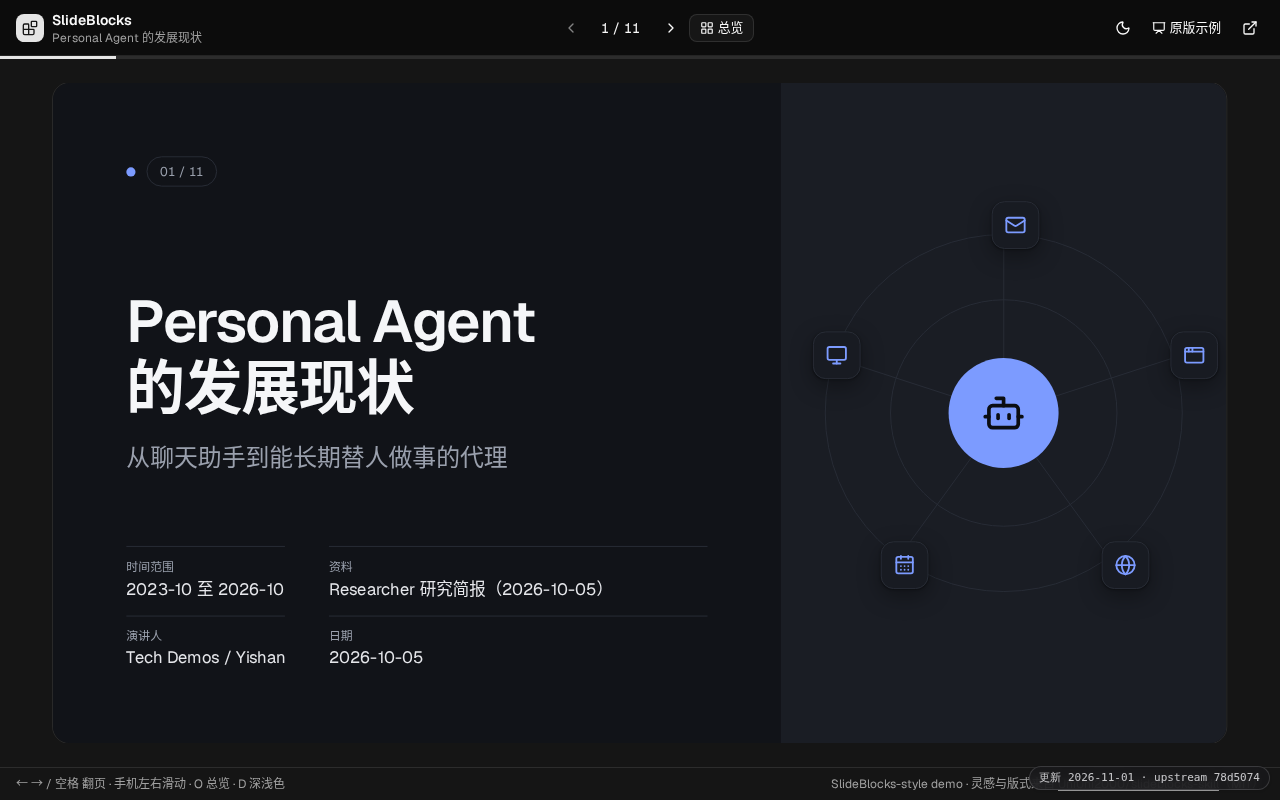
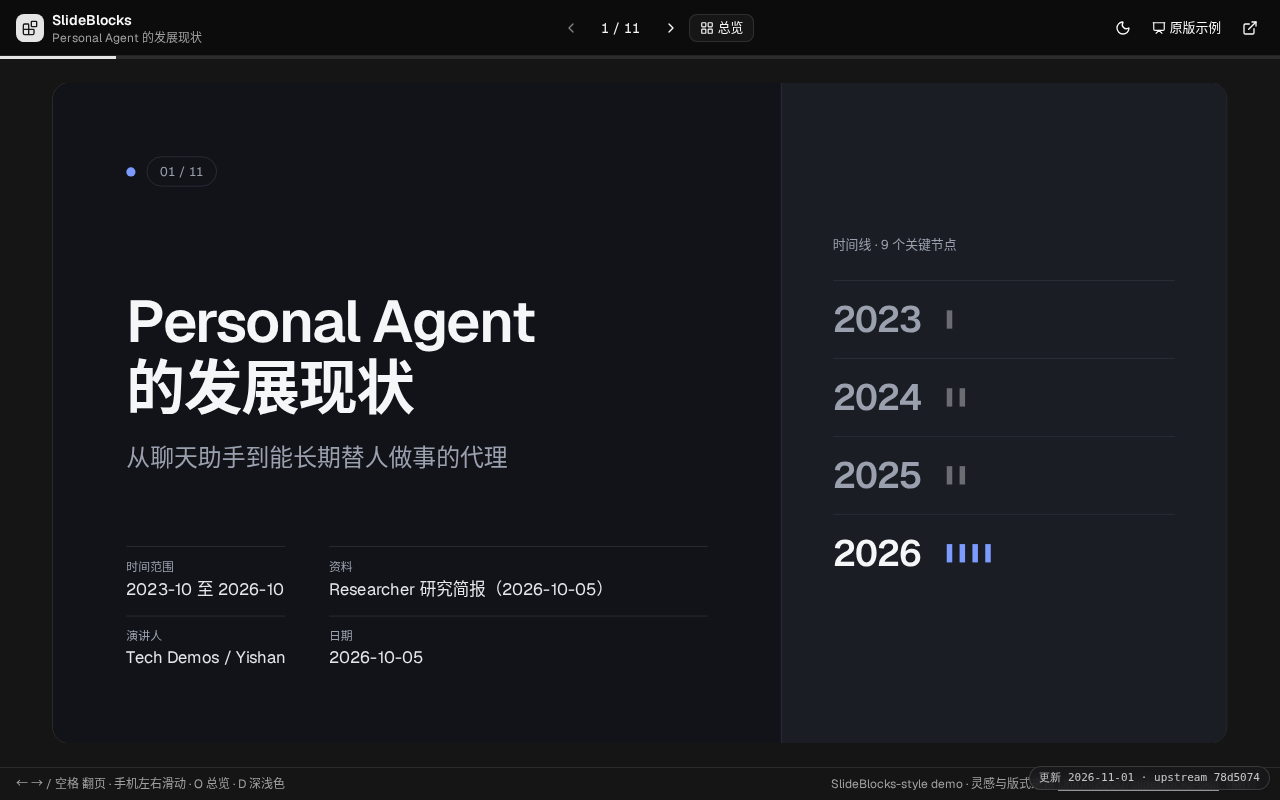
style(slideblocks): 封面改为时间线预览，去掉蓝色圆盘图标

diff --git a/apps/slideblocks/src/components/slides/title-slide.tsx b/apps/slideblocks/src/components/slides/title-slide.tsx
@@ -1,30 +1,21 @@
 // SlideBlocks-style layout, inspired by UniUni2000/slideblocks-skill (MIT).
-import { AppWindow, Bot, CalendarDays, Globe, Mail, Monitor } from "lucide-react"
-import type { LucideIcon } from "lucide-react"
-import type { SlideProps, TitleSlideData } from "@/lib/deck-types"
+import { DECK } from "@/lib/deck"
+import type { SlideProps, TimelineSlideData, TitleSlideData } from "@/lib/deck-types"
 
-const PANEL_W = 512
-const PANEL_H = 720
-const CENTER_X = PANEL_W / 2
-const CENTER_Y = PANEL_H / 2
-const OUTER_R = 205
-const INNER_R = 130
-
-const ORBIT: { Icon: LucideIcon; angle: number }[] = [
-  { Icon: Mail, angle: 270 },
-  { Icon: AppWindow, angle: 342 },
-  { Icon: Globe, angle: 54 },
-  { Icon: CalendarDays, angle: 126 },
-  { Icon: Monitor, angle: 198 },
-]
-
-function polar(angle: number, radius: number) {
-  const rad = (angle * Math.PI) / 180
-  return {
-    x: CENTER_X + radius * Math.cos(rad),
-    y: CENTER_Y + radius * Math.sin(rad),
-  }
-}
+// The cover's right panel previews the deck's own timeline: one row per year,
+// one tick per event. The newest year carries the accent.
+const TIMELINE = DECK.slides.find(
+  (s): s is TimelineSlideData => s.kind === "timeline",
+)
+const YEARS = TIMELINE
+  ? Array.from(
+      TIMELINE.events.reduce((acc, e) => {
+        acc.set(e.year, (acc.get(e.year) ?? 0) + 1)
+        return acc
+      }, new Map<string, number>()),
+    )
+  : []
+const EVENT_COUNT = TIMELINE?.events.length ?? 0
 
 export function TitleSlide({ slide, index, total }: SlideProps<TitleSlideData>) {
   const pageLabel = `${String(index + 1).padStart(2, "0")} / ${String(total).padStart(2, "0")}`
@@ -68,59 +59,42 @@ export function TitleSlide({ slide, index, total }: SlideProps<TitleSlideData>) 
 
       <div
         aria-hidden
-        className="relative w-[38%] overflow-hidden bg-[var(--sb-subtle)]"
+        className="flex w-[38%] flex-col justify-center border-l border-[color:var(--sb-border)] bg-[var(--sb-subtle)] px-[56px]"
       >
-        <svg
-          className="absolute inset-0 h-full w-full"
-          viewBox={`0 0 ${PANEL_W} ${PANEL_H}`}
-          fill="none"
-        >
-          <circle
-            cx={CENTER_X}
-            cy={CENTER_Y}
-            r={INNER_R}
-            stroke="var(--sb-border)"
-            strokeWidth={1}
-          />
-          <circle
-            cx={CENTER_X}
-            cy={CENTER_Y}
-            r={OUTER_R}
-            stroke="var(--sb-border)"
-            strokeWidth={1}
-          />
-          {ORBIT.map(({ angle }) => {
-            const p = polar(angle, OUTER_R)
+        <div className="text-[14px] text-[color:var(--sb-muted)]">
+          时间线 · {EVENT_COUNT} 个关键节点
+        </div>
+        <ol className="mt-[28px]">
+          {YEARS.map(([year, count], i) => {
+            const latest = i === YEARS.length - 1
             return (
-              <line
-                key={angle}
-                x1={CENTER_X}
-                y1={CENTER_Y}
-                x2={p.x}
-                y2={p.y}
-                stroke="var(--sb-border)"
-                strokeWidth={1}
-              />
+              <li
+                key={year}
+                className="flex items-center gap-[28px] border-t border-[color:var(--sb-border)] py-[22px]"
+              >
+                <span
+                  className={`w-[96px] text-[40px] font-semibold tabular-nums leading-none tracking-[-0.02em] ${
+                    latest
+                      ? "text-[color:var(--sb-heading)]"
+                      : "text-[color:var(--sb-muted)]"
+                  }`}
+                >
+                  {year}
+                </span>
+                <span className="flex gap-[8px]">
+                  {Array.from({ length: count }, (_, k) => (
+                    <span
+                      key={k}
+                      className={`h-[20px] w-[6px] ${
+                        latest ? "bg-[var(--sb-accent)]" : "bg-[var(--sb-fg)] opacity-40"
+                      }`}
+                    />
+                  ))}
+                </span>
+              </li>
             )
           })}
-        </svg>
-
-        <div className="absolute left-1/2 top-1/2 flex h-[120px] w-[120px] -translate-x-1/2 -translate-y-1/2 items-center justify-center rounded-full bg-[var(--sb-accent)]">
-          <Bot size={48} className="text-[color:var(--sb-accent-fg)]" />
-        </div>
-
-        {ORBIT.map(({ Icon, angle }) => {
-          const p = polar(angle, OUTER_R)
-          return (
-            <div
-              key={angle}
-              className="absolute flex h-[52px] w-[52px] -translate-x-1/2 -translate-y-1/2 items-center justify-center rounded-[14px] border border-[color:var(--sb-border)] bg-[var(--sb-card)] shadow-[var(--sb-shadow)]"
-              style={{ left: p.x, top: p.y }}
-            >
-              <Icon size={24} className="text-[color:var(--sb-accent)]" />
-            </div>
-          )
-        })}
+        </ol>
       </div>
     </section>
   )
